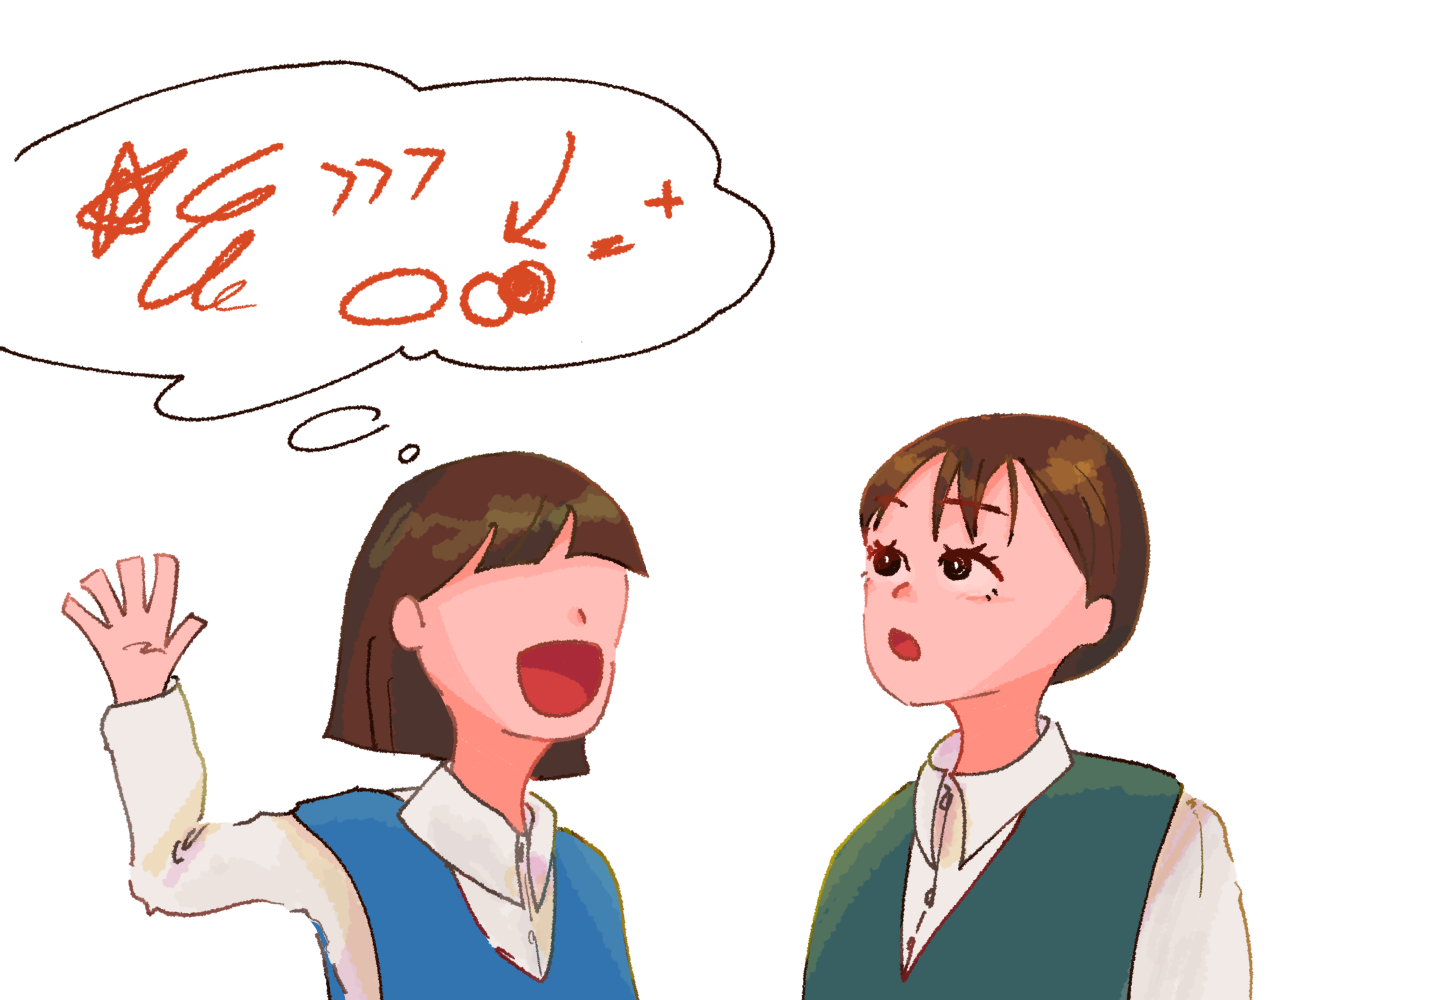
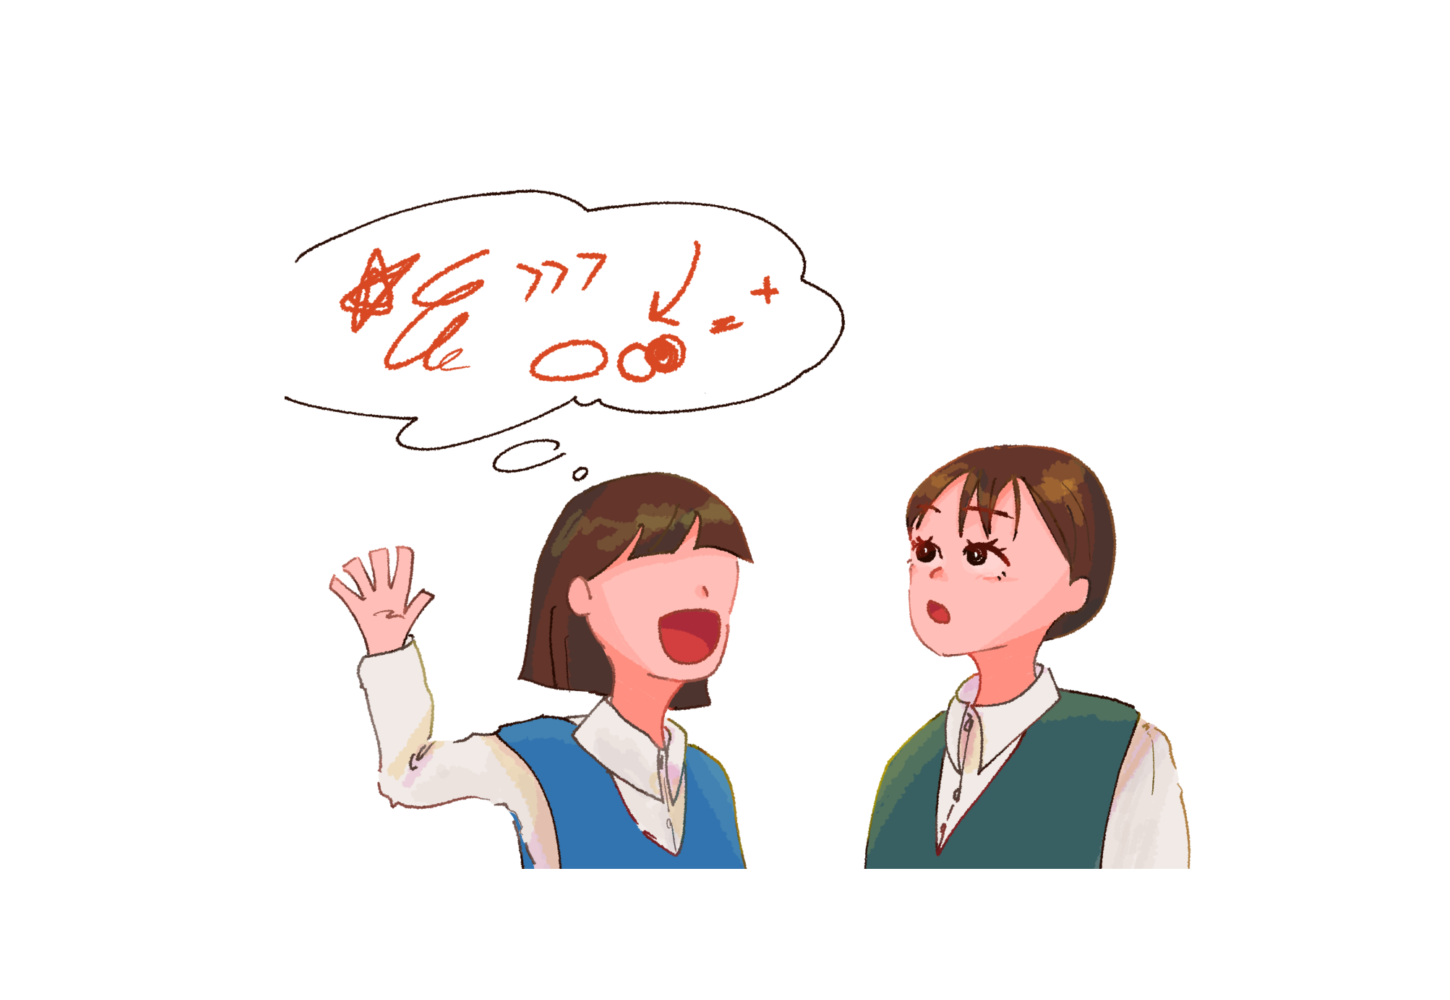
-

diff --git a/index.html b/index.html
@@ -467,6 +467,11 @@
                     そういう意味で、誰かのためになりたい。でもさ、いつまでに受講してねっていうのは、任意だからさ。苦手だけどやってみようって思う人ってちょっとさっき言った知識欲がある人じゃん。なんか、そういう人の手助けになったらなって思う気持ちがあったかな。
                 </dd>
             </dl>
+            <div class=".dummy-tedasuke">
+                <div class="tedasuke chapter">
+                    <img src="/img/3.PNG" alt="-" >
+                </div>
+            </div>
             <dl class="txt_c1-kyo">
                 <dt>──</dt>
                 <dd>
@@ -635,7 +640,11 @@
                 </dd>
             </dl>
 
-            <br><br><br><br><br><br><br><br>
+            <div class=".dummy-odo">
+                <div class="odo chapter">
+                    <img src="/img/5.PNG" alt="-" >
+                </div>
+            </div>
             
             <dl class="txt_c1-kyo">
                 <dt>──</dt>

diff --git a/styles.css b/styles.css
@@ -138,9 +138,35 @@ body {
     height: auto;
     display: flex;
     justify-content: center;
-    margin: 30px 20%;
+    margin: -200px 20% -100px;
     scale: 90%;
 }
+
+.dummy-tedasuke {
+    height: 100vh;
+}
+  
+.tedasuke {
+    height: auto;
+    display: flex;
+    justify-content: center;
+    margin: -200px 20% 30px;
+    scale: 90%;
+}
+
+.dummy-odo {
+    height: 100vh;
+  }
+  
+.odo {
+    height: auto;
+    display: flex;
+    justify-content: center;
+    margin: -200px 20% -50px;
+    scale: 90%;
+}
+
+
 
 .dummy-endimg {
     height: 100vh;
